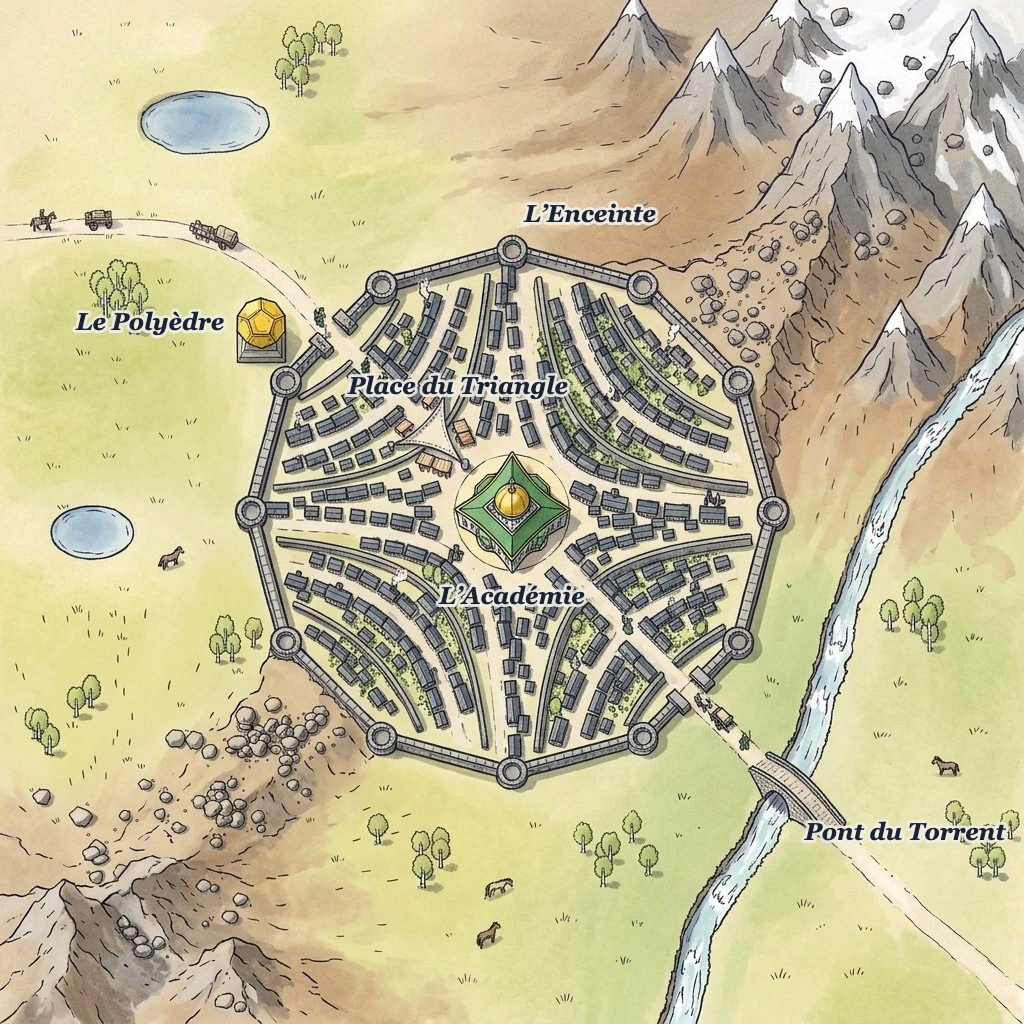
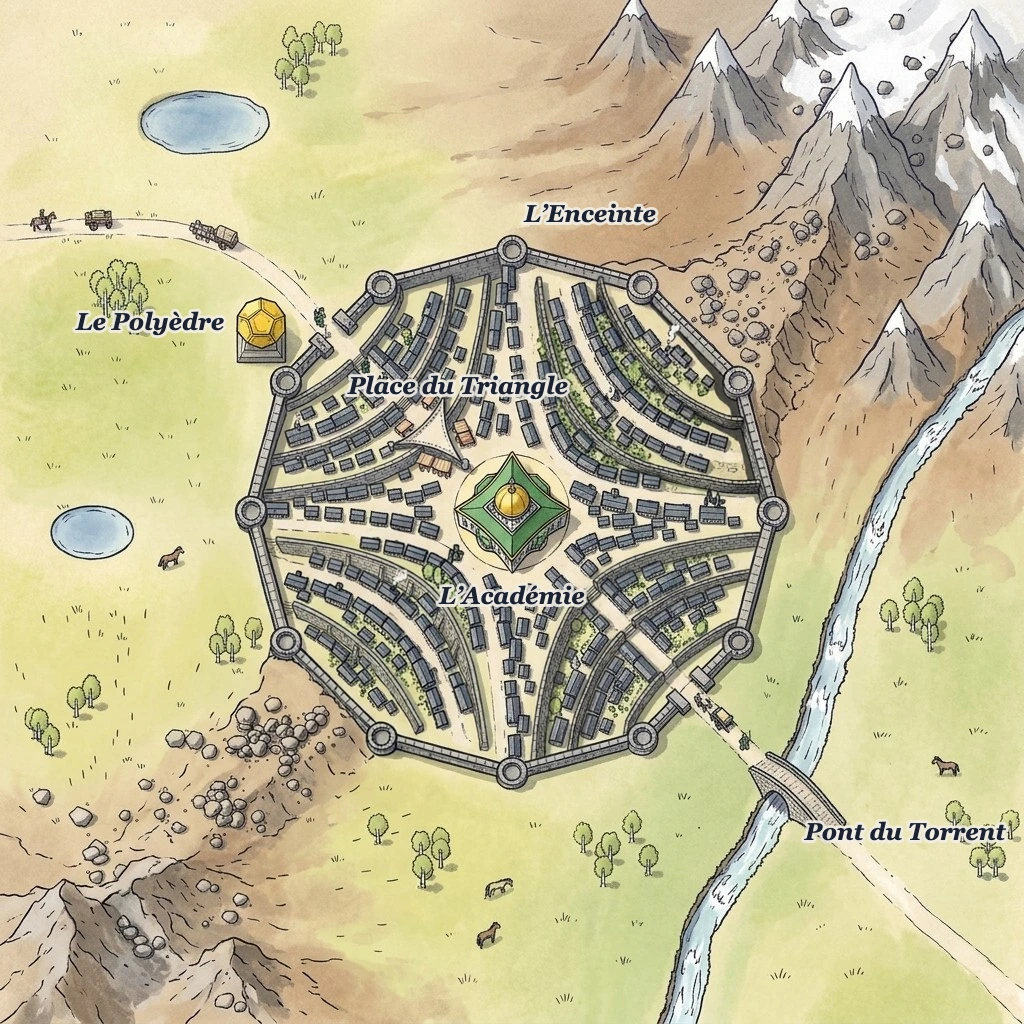
docs(wip): illustrations, Lobatchevsk, terrasses retouchées par quartier

diff --git a/docs/Chiphres/illustrations/villes/lobatchevsk/carte-lobatchevsk.py b/docs/Chiphres/illustrations/villes/lobatchevsk/carte-lobatchevsk.py
@@ -1,6 +1,6 @@
 # Carte de Lobatchevsk : surcouche SVG (noms des lieux, cibles de clic) posée sur carte-ville.png.
 # Usage : python3 carte-lobatchevsk.py carte-lobatchevsk.svg [--controle]  (--controle : cibles de clic en rouge)
-# Coordonnées = pixels de carte-ville.png (1024×1024), relevées sur carte-ville.png (original de l’IA, 2e essai, sans retouche ni recadrage). Modèle : ../cracovenn/carte-cracovenn.py.
+# Coordonnées = pixels de carte-ville.png (1024×1024), relevées sur carte-ville.png (original de l’IA, 2e essai, quatre quartiers retouchés et recollés par coller-quartiers.sh). Modèle : ../cracovenn/carte-cracovenn.py.
 # Rendu PNG : Chrome sans tête (le fond est référencé par chemin relatif, rendre depuis ce dossier).
 import sys
 

diff --git a/docs/wip/illustrations-progress.md b/docs/wip/illustrations-progress.md
@@ -4,8 +4,8 @@
 
 _Mis à jour le 2026-11-01, carte de Lobatchevsk faite, à valider ; pas de PR : chantier 100 % doc._
 
-- **État** : casting, gouverneurs et Palotins versés au Compendium (§ XI) ; plans des sept capitales au Compendium. **Grande carte terminée**, fond FIGÉ `carte/fond-carte-hd.webp` (PNG maître chez David, `~/Downloads/fond-carte-hd-2026-10-29.png`). **Cartes de Sandomir, Turingrad, Sinusborg et Cracovenn VALIDÉES.** **Lobatchevsk : carte faite** (`villes/lobatchevsk/carte-lobatchevsk.webp`, 2e essai gardé sans retouche), en attente de validation.
-- **Prochaine action** : après validation de Lobatchevsk, restent Empoche-les-Bains et Bonneteau. Méthode : plan schématique (modèle récent : `villes/cracovenn/`) → validation → référence sans texte dans `~/Downloads` → Nano Banana → retouches locales **sur un carré découpé** (`villes/cracovenn/coller-retouche.sh`) → `carte-ville.png` → surcouche `carte-<ville>.py` → WebP (rendu SVG → PNG par `chrome-headless-shell` de Playwright, `magick -quality 92`).
+- **État** : casting, gouverneurs et Palotins versés au Compendium (§ XI) ; plans des sept capitales au Compendium. **Grande carte terminée**, fond FIGÉ `carte/fond-carte-hd.webp` (PNG maître chez David, `~/Downloads/fond-carte-hd-2026-10-29.png`). **Cartes de Sandomir, Turingrad, Sinusborg et Cracovenn VALIDÉES.** **Lobatchevsk : carte faite** (`villes/lobatchevsk/carte-lobatchevsk.webp`, 2e essai + terrasses retouchées quartier par quartier), en attente de validation.
+- **Prochaine action** : après validation de Lobatchevsk, restent Empoche-les-Bains et Bonneteau. Méthode : plan schématique (modèle récent : `villes/cracovenn/`) → validation → référence sans texte dans `~/Downloads` → Nano Banana → retouches locales **sur un carré découpé** (`villes/cracovenn/coller-retouche.sh` ; plusieurs carrés : `villes/lobatchevsk/coller-quartiers.sh`) → `carte-ville.png` → surcouche `carte-<ville>.py` → WebP (rendu SVG → PNG par `chrome-headless-shell` de Playwright, `magick -quality 92`).
 - **En attente de David** : validation de la carte de Lobatchevsk, puis quelle capitale ensuite.
 - **Pièges en cours** : **ce qui doit se voir doit être dans la FORME de la référence** (un symbole est recopié comme un logo, le texte seul est ignoré) ; **fichiers pour l'IA copiés dans `~/Downloads`** ; une retouche Nano Banana redessine parfois toute l'image : vérifier par différence avec l'original, coller la seule zone ; image de style en 2e pièce jointe = copiée telle quelle, ne pas la joindre. **Pas de formes géométriques plaquées sur le paysage** : la discipline de chaque province ne se montre que dans sa ville. Ubu sans chapeau pointu ni longue robe blanche ; noms de couleurs en anglais courant ; références sans texte ; jamais de personne réelle nommée. Le Lexique décrit encore Turingrad « brutaliste soviétique » : ne pas y toucher sans demande.
 - **Worktree / branche** : aucun, commits doc directs sur `main`.
@@ -236,4 +236,6 @@ Style: an antique storybook map, like an early 20th-century fairy-tale map or an
 No text, no labels, no letters, no numbers, no compass rose, no frame, no border.
 ```
 
-**Lobatchevsk, 2e essai (prompt v2) GARDÉ, sans retouche (2026-11-01)** → `villes/lobatchevsk/carte-ia-original.jpeg` (pas de cadre de parchemin : `carte-ville.png` = l'original converti). La crête se lit (éboulis jusqu'aux angles nord-est et sud-ouest de l'enceinte, vallées vertes), douze tours, deux portes, rues en courbe, Académie, Place du Triangle, Polyèdre, Pont du Torrent. Défauts acceptés par David : **intérieur de la ville encore plat** (murs de soutènement en simples lignes), maisons répétitives, Place du Triangle petite. Surcouche `carte-lobatchevsk.py` → `carte-lobatchevsk.svg` + `carte-lobatchevsk.webp` (1024×1024, q92) : cinq lieux, noms courts (« L'Académie », « Place du Triangle », « Le Polyèdre », « Pont du Torrent », « L'Enceinte », cibles = les douze tours), nom complet en `<title>`. **En attente de la validation de David.** Leçon : le relief, comme le reste, doit être DANS la forme de la référence (crête rocheuse, teinte d'altitude).
+**Lobatchevsk, 2e essai (prompt v2) GARDÉ, sans retouche (2026-11-01)** → `villes/lobatchevsk/carte-ia-original.jpeg` (pas de cadre de parchemin : `carte-ville.png` = l'original converti). La crête se lit (éboulis jusqu'aux angles nord-est et sud-ouest de l'enceinte, vallées vertes), douze tours, deux portes, rues en courbe, Académie, Place du Triangle, Polyèdre, Pont du Torrent. Défauts acceptés par David : **intérieur de la ville encore plat** (murs de soutènement en simples lignes), maisons répétitives, Place du Triangle petite. Surcouche `carte-lobatchevsk.py` → `carte-lobatchevsk.svg` + `carte-lobatchevsk.webp` (1024×1024, q92) : cinq lieux, noms courts (« L'Académie », « Place du Triangle », « Le Polyèdre », « Pont du Torrent », « L'Enceinte », cibles = les douze tours), nom complet en `<title>`. **Puis retouché (voir plus bas).** Leçon : le relief, comme le reste, doit être DANS la forme de la référence (crête rocheuse, teinte d'altitude).
+
+**Lobatchevsk, retouche des terrasses (2026-11-01, voulue par David)** : 1re retouche sur la ville entière (carré de 576 px, `villes/lobatchevsk/ville-carre.png` → `retouche-1-ia.jpeg`) **ratée** : terrasses inchangées, et une **deuxième Place du Triangle** ajoutée au sud-ouest (le prompt demandait « la place plus visible, avec des étals »). Puis **un carré de 300 px par quartier** (`quartier-<ne|no|so|se>-carre.png`, agrandi à 1024), une seule demande par prompt (« les murs gris deviennent de hauts murs de soutènement, ombre du côté qui descend »), le sens de la pente donné par quartier (point haut : angles nord-est et sud-ouest ; point bas : les deux portes) : **les quatre réussies du premier coup** (`quartier-*-ia*.jpeg`), cadrage conservé. Écarts acceptés : quelques murs de terrasse en plus, la route droite franchit des murs par des marches (nord-ouest, sud-est). `coller-quartiers.sh` : masque par différence calculé en 1024, réduit à 300, bords du carré fondus → `carte-ville.png` ; jointures vérifiées au centre. Surcouche refaite (mêmes lieux). **En attente de la validation de David.** Leçon : pour une retouche, **un petit carré et une seule demande** ; toute demande en plus est prise au pied de la lettre (place dupliquée).
